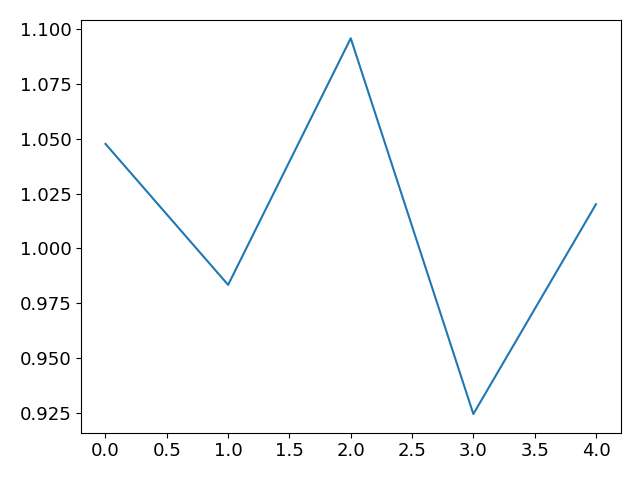
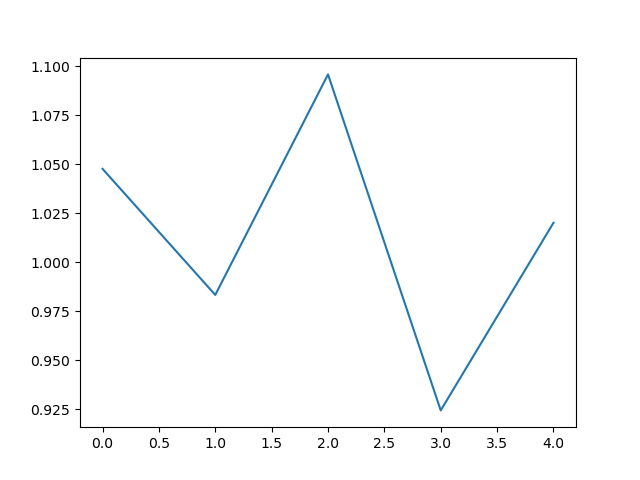
Update

diff --git a/subject6.py b/subject6.py
@@ -34,26 +34,17 @@ class MultiNewton(object):
         return x
 
 
-def main():
+if __name__ == "__main__":
     f = lambda x: 10 * (x[1] ** 2) + 10 * (x[0] ** 4) - 20 * (x[0] ** 2) * x[1] + 1 + x[0] ** 2 - 2 * x[0]
     dx0_f = lambda x: 40 * (x[0] ** 3) - 40 * x[0] * x[1] + 2 * x[0] - 2
     dx1_f = lambda x: 20 * x[1] - 20 * (x[0] ** 2)
     grad_f = lambda x: np.array([dx0_f(x), dx1_f(x)])
     hessian_matrix = lambda x: np.array([[120 * (x[0] ** 2) - 40 * x[1] + 2, 40 * x[0]], [40 * x[0], 20 - 40 * x[0]]])
 
-    init_x = np.array([-2, 2])
     solver = MultiNewton(f, dx0_f, dx1_f, grad_f, hessian_matrix)
-    res = solver.solve(init_x=init_x, n_iter=5)
+    res = solver.solve(init_x=np.array([-2, 2]), n_iter=5)
     print(f"Solution is x = [{res[0]:.2f} {res[1]:.2f}]")
 
-    errors = solver.hist
-    epochs = np.arange(0, errors.shape[0])
-
-    plt.rcParams["font.size"] = 13
-    plt.plot(epochs, errors)
+    plt.plot(np.arange(0, solver.hist.shape[0]), solver.hist)
     plt.tight_layout()
     plt.savefig('subject6.png')
-
-
-if __name__ == "__main__":
-    main()
